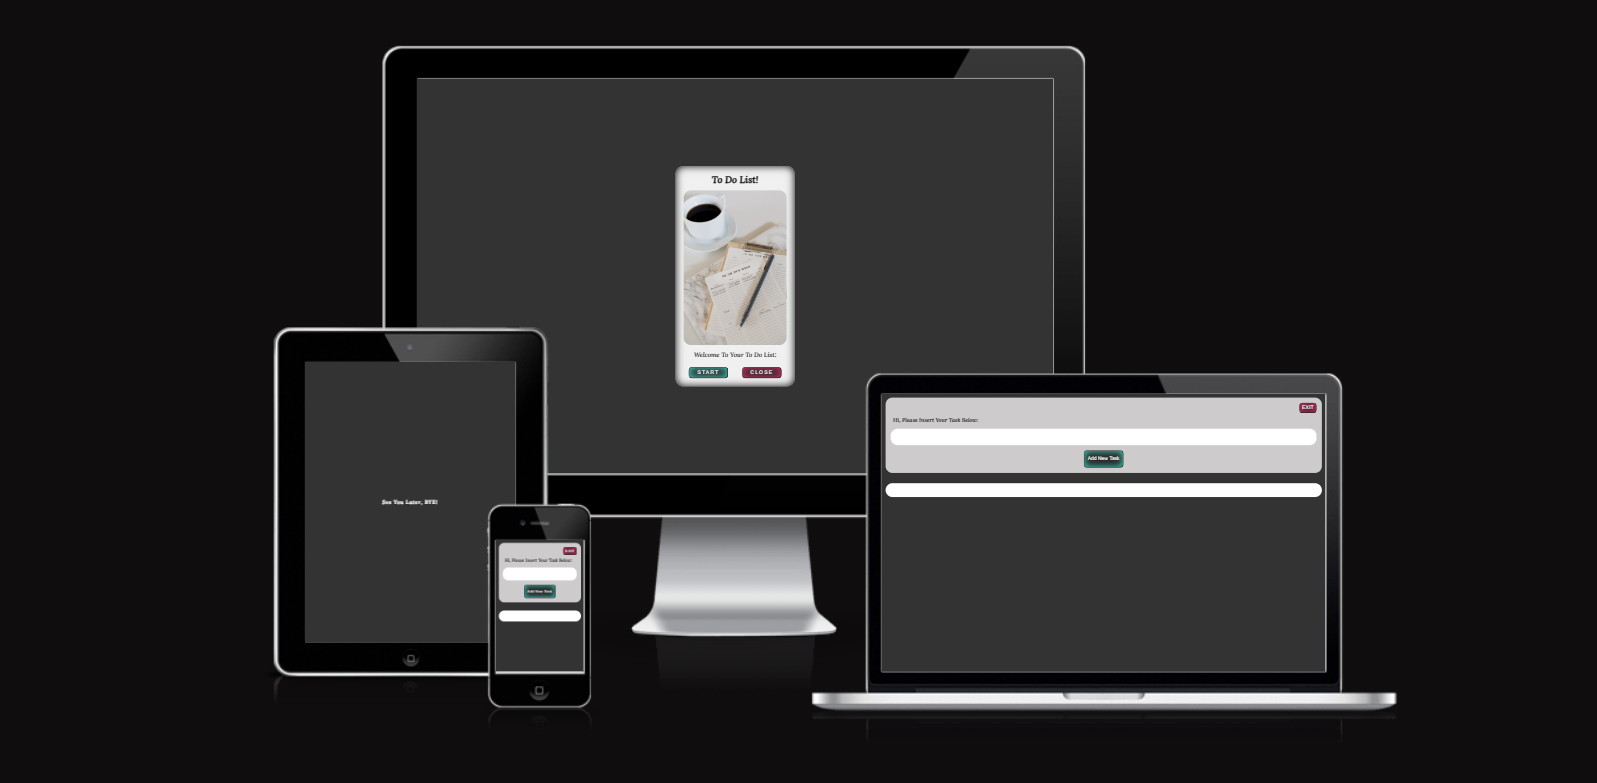
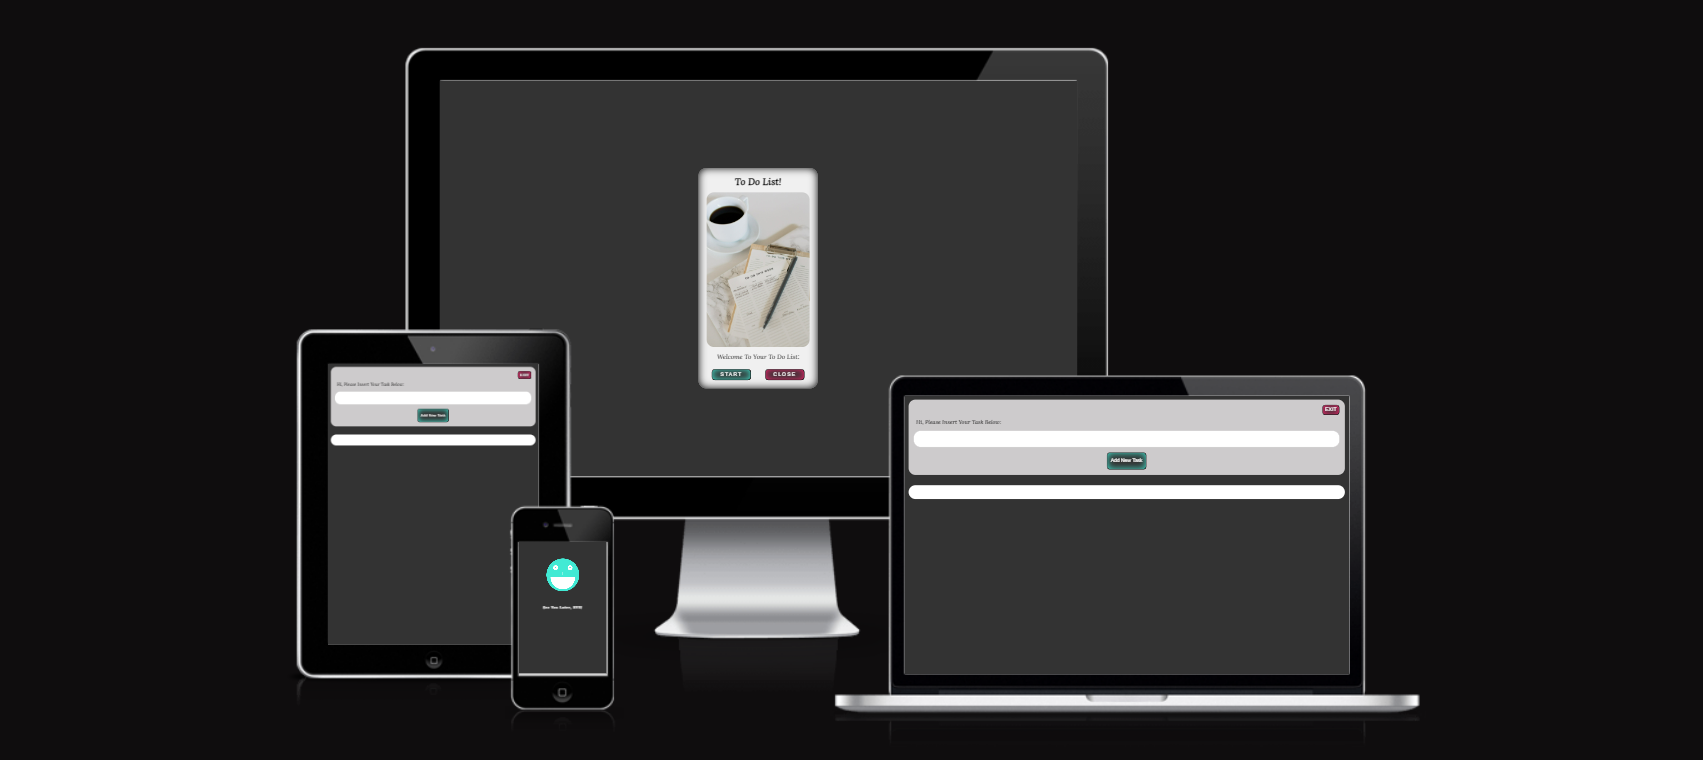
Edit readme file and add photos to readme file, also change word 'Here' to 'start page' inside 404.html page

Changed region(s): [[0.1534, 0.0605, 0.8898, 0.9382], [0.3989, 0.2118, 0.5216, 0.5145], [0.2455, 0.6355, 0.2761, 0.6658]]

diff --git a/404.html b/404.html
@@ -20,7 +20,7 @@
     <div class="main-container">
         <h1>To-do List App!</h1>
         <h4><span>404!</span> Page Not Found!!</h4>
-        <h5>Please Press <a href="index.html">Here</a>To go back To the start Page of the Application.</h5>
+        <h5>Please Press on <a href="index.html">start page</a>To go back To the start page of the Application.</h5>
     </div>
 </body>
 

diff --git a/README.md b/README.md
@@ -1,12 +1,12 @@
 <h1 align="center">📝 To Do List App 📝</h1>
 
-This is a simple to-do list app that allows you to keep track of your tasks and monitor your daily progress on any project or task. It can also help you remember the pending ones.
+This is a simple to-do list application that allows you to keep track of your tasks and monitor your daily progress on any project or task. It can also help you remember the pending ones.
 
-The To Do List Site/App is live, please [Click Here](https://alakeldev.github.io/to-do-list-pp2/) to check It.
+The to-do List App is live, please [Click Here](https://alakeldev.github.io/to-do-list-pp2/) to check It.
 
 ![Site view across devices](assets/readme-images/todolistapp-amiresponsive.png)
 
-You can check the App/Site on "Am I Responsive!" Website by [Clicking Here](https://ui.dev/amiresponsive?url=https://alakeldev.github.io/to-do-list-pp2/).
+Also you can check the App on "Am I Responsive!" Website By [Clicking Here](https://ui.dev/amiresponsive?url=https://alakeldev.github.io/to-do-list-pp2/) or on "Responsive Design Checker" Website By [Clicking Here](https://responsivedesignchecker.com/checker.php?url=https%3A%2F%2Falakeldev.github.io%2Fto-do-list-pp2%2F&width=1400&height=700).
 
 ## Tabel of Contents
 - [Tabel of Contents](#tabel-of-contents)
@@ -24,6 +24,9 @@ You can check the App/Site on "Am I Responsive!" Website by [Clicking Here](http
 - [Features](#features)
   - [Existing Features](#existing-features)
     - [Start page](#start-page)
+    - [Main App page](#main-app-page)
+    - [See You Later page](#see-you-later-page)
+    - [404 page](#404-page)
   - [Future Features](#future-features)
 - [Testing](#testing)
   - [Validator Testing](#validator-testing)
@@ -44,13 +47,13 @@ You can check the App/Site on "Am I Responsive!" Website by [Clicking Here](http
 To provide yourself with a list of your priorities in order to ensure that you don’t forget anything and are able to effectively plan out your tasks so that they are all accomplished in the correct time frame.
 
 ### Site/App Goal
-To help you organize tasks and stay on top of your deadlines. It replaces pen-and-paper to-do lists and can be used from mobile devices and many desktop devices. It helps you stay productive by organizing everything you need to do in one place.
+To help you organize tasks and stay on top of your deadlines. It replaces pen-and-paper to-do lists and can be used from mobile/Tablet devices and many desktop devices. It helps you stay productive by organizing everything you need to do in one place.
 
 ### Audience
-anyone who wants to keep track of their tasks and stay organized. It can be used by students, professionals, and anyone who wants to be more productive and efficient with their time.
+Anyone who wants to keep track of their tasks and stay organized. It can be used by students, professionals, and anyone who wants to be more productive and efficient with their time.
 
 ### Communication
-Through the app/site, with a clear and simple design, you can add tasks and monitor your progress anytime. Even if you close the app, you can get back to your added tasks because of the local storage feature. The website structure is also good and clear.
+Through the application, with a clear and simple design, you can add tasks and monitor your progress anytime. Even if you close the app, browser or even your device, you can get back to your added tasks and monitor your progress because of the local storage feature. The website structure is also good and clear.
 
 ### Current User Goals
 - To help the user stay organized and productive.
@@ -67,32 +70,45 @@ Through the app/site, with a clear and simple design, you can add tasks and moni
 ## Design
 
 ### Colour Scheme
-The color palette was created by [Coolors](https://coolors.co) with the idea of providing as much contrast as possible without feeling overwhelming. Most of the colors are primarily dark, simple, and calm across the site. However, the backgrounds (body element color) were generated in one main color (dark color “Jet”). Also, the texts have two main colors (black and white), but the title of the clear all button has a red color. Additionally, I’m using coloring shadows “inset” with Rose and Turquoise colors inside the button and coloring shadows “inset” with black color and anti-flash white as a background for the start app interface. The combination of the background color and shadow color does not overwhelm the user but gives a dark, simple, and stylish feeling. It does not hurt the eyes by working in a dark room.
+The color palette was created by [Coolors](https://coolors.co) with the idea of providing as much contrast as possible without feeling overwhelming. Most of the colors are primarily dark, simple, and calm across the site. However, the backgrounds (body element color) were generated in one main color (dark color “Jet”). Also, the texts have two main colors (black and white), but the title of the clear all button has a red color. Additionally, I’m using coloring shadows “inset” with Rose and Turquoise colors inside the buttons and coloring shadows “inset” with black color and anti-flash white as a background for the start app interface. The combination of the background color and shadow color does not overwhelm the user but gives a dark, simple, and stylish feeling. Also the main point of these colors that It does not hurt the eyes by working in a dark/night room.
 
 ![Colour Palette](assets/readme-images/app-colors.png)
 
 ### Typography
-"Lora" was selected for the all App pages as this font has simple, readable and clear decoration. also I make some words looking great by manipulating the space between letters.  ("sans-serif as alt font").
+"Lora" was selected for the all application pages as this font has simple, readable and clear decoration. also I make some words looking great by manipulating the space between letters.  ("sans-serif as alt font").
 
 ### Imagery
-The image showing on the start page (interface) site was sourced from ["pinterest-website-photos sharing."](https://www.pinterest.com/pin/151715081184288287/).
+The showing image on the start interface application was sourced from ["pinterest-website"](https://www.pinterest.com/pin/151715081184288287/).
 
 ## Features
 
 ### Existing Features
 #### Start page
-We are providing the user with a simple design of a start page app. The start interface/page is simple with a dark background color. It defines the soul of the website/app to make the user’s eyes more comfortable. inside this page, the users have simple design and text, so they can choose between two options, first one is to start the application by clicking on the start button (or even push the Enter button through the keyboard). The other option is by clicking on the close button to close the application if they changed their mind.
+
+We are providing the user with a simple design for a start page application. The start interface is simple with a dark background color that defines the soul of the app to make the user’s eyes more comfortable. Inside this page, users have a simple design with a header, image and simple text. They can choose between two options. The first one is to start the application by clicking on the start button that has the same background color as the body page but with an inset shadow (inner) that has turquoise color. The combination of these two colors gives good UX (also as a shortcut hand, users can push the Enter key on their keyboard directly to start the application). The other option is by clicking on the close button that also has the same background color of the body page but with an inner shadow that has rose color. This action will lead to closing the application if they change their mind.
 
 ![Start Page](assets/readme-images/startpage.png)
 
 
+#### Main App page
+
+On the main page of our to-do list application, users can add new tasks using the simple and intuitive new task adding process. The first section includes an exit button for users who want to leave the app, as well as simple text to guide users on what they should do. An empty field is provided for users to enter their tasks, and below the empty field is the ‘Add New Task’ button. Users can enter their task and press the button to add it to the list.
+The other section on the main page of our to-do list application is the list of tasks. Users can see all the tasks they have added and review them as needed. Each task can be deleted from the list after it has been completed. Additionally, users can clear the entire list and start a new to-do list with no previous tasks displayed.
 
 ![Main App Page](assets/readme-images/mainpage.png)
 
 
+#### See You Later page
+
+When users press the exit button on the main page of our to-do list application, they are taken to a ‘See You Later’ page. This page has a simple design with a turquoise smiley face and simple text that enhances the user experience and encourages users to come back later and use the app with ease.
 
 ![See You Later Page](assets/readme-images/seeyoulater.png)
 
+#### 404 page
+
+Our 404 page has a simple design that displays the application title and error description. Additionally, there is a small text with a link that guides users back to the start page of the application.
+
+![404 Page](assets/readme-images/404.png)
 
 ### Future Features
 - A smart suggestions using machine learning algorithms to suggest tasks based on the user’s previous tasks and habits.
@@ -105,40 +121,37 @@ We are providing the user with a simple design of a start page app. The start in
 
 ### Validator Testing
 - HTML (By using [W3C validator](https://validator.w3.org/))
-  -  Result for index.html (Start Page App)
+  -  Result for index.html
 
      ![W3C html validator Index page](assets/readme-images/index-page-checker.png)
-  -  Result for todolistpage.html (To Do List Main Page App)
+  -  Result for todolistpage.html
 
-     ![W3C html validator Gallery page](assets/readme-images/gallery-checker.png)
-  -  Result for seeyoulater.html (See You Later Page App)
+     ![W3C html validator Gallery page](assets/readme-images/mainapp-page-checker.png)
+  -  Result for seeyoulater.html
 
-     ![W3C html validator Missions page](assets/readme-images/mission-checker.png)
+     ![W3C html validator Missions page](assets/readme-images/seeyoulater-checker.png)
 
 - CSS (By using [Jigsaw validator](https://jigsaw.w3.org/css-validator/))
   - Result for style.css
 
      ![Jigsaw validator message](assets/readme-images/css-checker.png)
-  - "The appearing warning is not making negative effect or conflict with the user interactions".
-
-     ![Jigsaw validator warning message](assets/readme-images/warnings-css.png)
-
+  
 - Lighthouse Testing (By using the Lighthouse feature of Google Chrome's Developer Tools)
-  - Result for index.html (Start Page App)
+  - Result for index.html
 
-     ![lighthouse index page](assets/readme-images/home-page.png)
-  - Result for todolistpage.html (To Do List Main Page App)
+     ![lighthouse index page](assets/readme-images/index-lighthouse.png)
+  - Result for todolistpage.html
 
-     ![lighthouse index page](assets/readme-images/gallery-page.png)
-  - Result for seeyoulater.html (See You Later Page App)
+     ![lighthouse index page](assets/readme-images/todolistpage-lighthouse.png)
+  - Result for seeyoulater.html
 
-     ![lighthouse index page](assets/readme-images/missions-page.png)
+     ![lighthouse index page](assets/readme-images/seeyoulater-lighthouse.png)
 
 ### Unfixed Bugs
 
 ## Technologies Used
 ### Main Languages Used
-- HTML5
+- HTML5 & Canvas Element
 - CSS3
 - JavaScript
 
@@ -148,7 +161,7 @@ We are providing the user with a simple design of a start page app. The start in
 - VS-Code - to creat the html files, CSS styling sheet file and JS files before pushing the project to Github.
 - GitHub - to store my repository and deployed live link for submission.
 - Balsamiq-wireframes - was used to imagine the basic structure of the app without any styling.
-- Am I Responsive? - to ensure the project-App is looked good across all devices.
+- (Am I Responsive?) && (ResponsiveDesignChecker) - to ensure the project-App is looked good across all devices.
 - favicon.io - to change the png format to favicon format.
 - Google Chrome - "Developer Tools, Console, Local Storage" to Monitor my code and check the errors along the way.
 
@@ -158,7 +171,7 @@ We are providing the user with a simple design of a start page app. The start in
 - In the GitHub repository, navigate to the Settings tab
 - From the source section drop-down menu, select the main Branch
 - Once the main branch has been selected, the page will be automatically refreshed with a detailed ribbon display to indicate the successful deployment.
-- The live link can be found Here [TO-DO-LIST-APP](https://alakeldev.github.io/to-do-list-pp2/)
+- The live link can be found Here [to-do List App](https://alakeldev.github.io/to-do-list-pp2/)
 
  ### How to clone
 - Go to the following repository on GitHub: https://github.com/alakeldev/to-do-list-pp2
@@ -175,3 +188,5 @@ We are providing the user with a simple design of a start page app. The start in
 ### Acknowledgements
 
 - I want to say thank you to my mentor Martina, who consistently gave me good advices, feedback and helped me to keep the project within the prospective guidelines.
+
+- I would like to thank the assessor for their comments related to my previous project (PP1). They helped me avoid making the same mistakes again, except for one: my Github commit messages are still too long. I apologize for this because when I received these valuable comments, I was almost finished with (PP2). However, I will try my best throughout (PP3) to make my commit messages within 50 characters.
